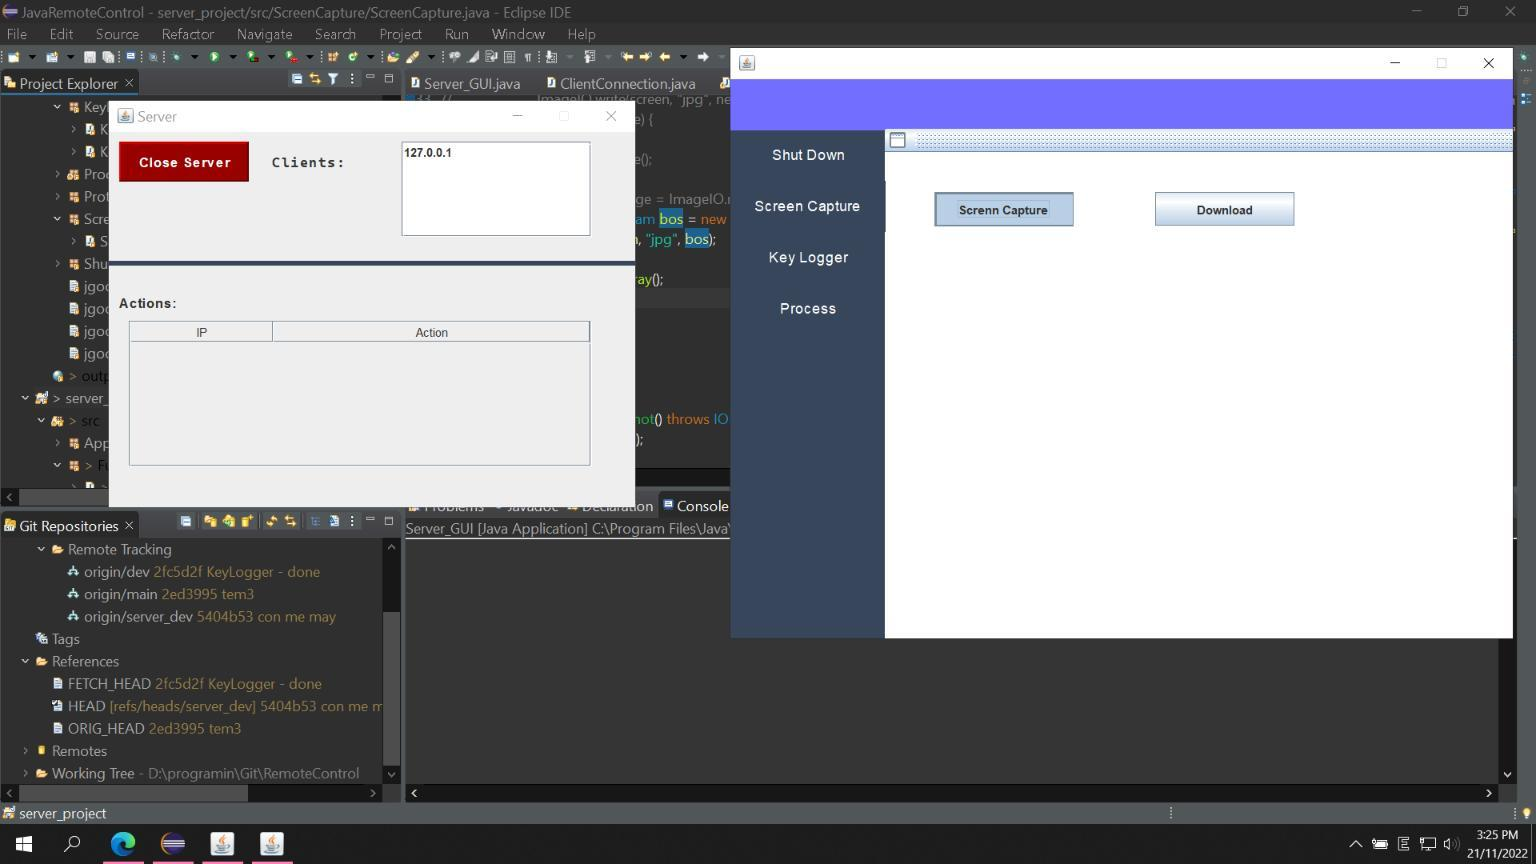
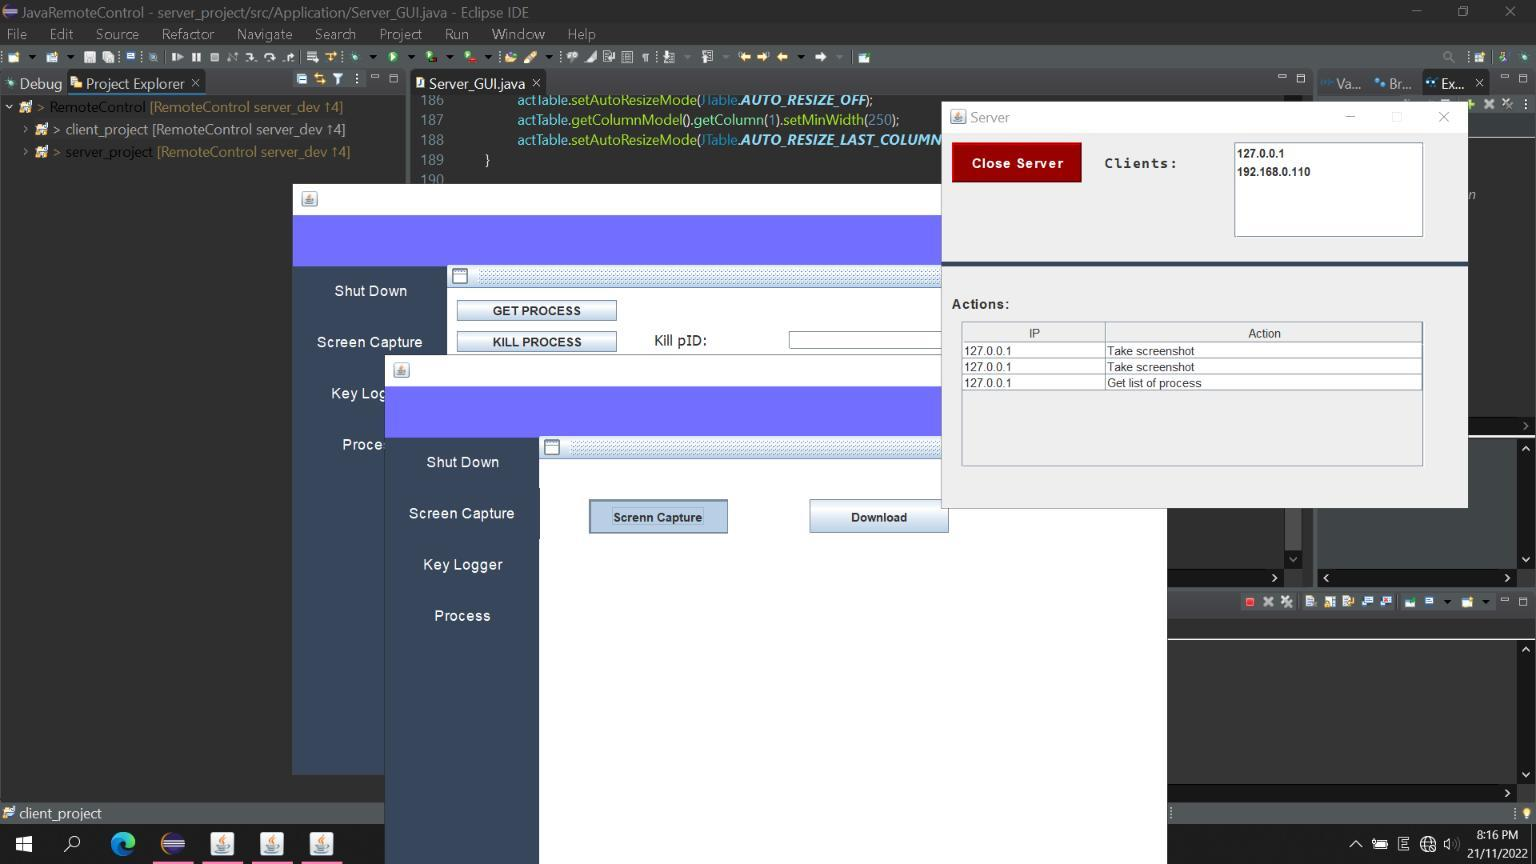
Đã xong server đỉnh cao siêu cấp dũ chụ

diff --git a/client_project/src/Application/ClientConnection.java b/client_project/src/Application/ClientConnection.java
@@ -19,58 +19,69 @@ public class ClientConnection {
 	public void setMain_Window(ClientApplication_GUI mw) {
 		this.main = mw;
 	}
-	
-	public boolean checkStartConnection() throws IOException {
-		Socket client = new Socket(this.host, this.port);
-		ObjectOutputStream oos = new ObjectOutputStream(client.getOutputStream());
-		ObjectInputStream ois = new ObjectInputStream(client.getInputStream());
-		oos.writeObject("START");
-		oos.flush();
-		boolean res = client.isConnected();
-		client.close();
-		return res;
+
+	public boolean checkStartConnection() {
+		try {
+			Socket client = new Socket(this.host, this.port);
+			ObjectOutputStream oos = new ObjectOutputStream(client.getOutputStream());
+			ObjectInputStream ois = new ObjectInputStream(client.getInputStream());
+			oos.writeObject("START");
+			oos.flush();
+			client.close();
+			return true;
+		} catch (IOException e) {
+			System.out.println("ioe checkStartConnection - normal");
+			return false;
+		}
 	}
-	
-	
+
 	public void checkConnectionConstantly() {
 		// Check connection constantly
 		cth = new CheckThread(this);
 		cth.start();
 	}
-	
-	public boolean checkConnection() throws IOException {
-		Socket client = new Socket(this.host, this.port);
-		ObjectOutputStream oos = new ObjectOutputStream(client.getOutputStream());
-		ObjectInputStream ois = new ObjectInputStream(client.getInputStream());
-		oos.writeObject("CHECK");
-		oos.flush();
-		boolean res = client.isConnected();
-		client.close();
-		return res;
-	}
-	
-	public void endConnection(boolean passive) throws IOException {
-		// Intend to end
-			// Come from: CheckThread
-			// End the connection
-		if (passive == false) {
+
+	public boolean checkConnection() {
+		try {
 			Socket client = new Socket(this.host, this.port);
 			ObjectOutputStream oos = new ObjectOutputStream(client.getOutputStream());
 			ObjectInputStream ois = new ObjectInputStream(client.getInputStream());
-			oos.writeObject("END");
+			oos.writeObject("CHECK");
 			oos.flush();
 			client.close();
+			return true;
+		} catch (IOException e) {
+			System.out.println("ioe checkConnection - normal");
+			return false;
 		}
-		// Forced to end
-			// Come from: User
-			// End the CheckThread
-		else {
+	}
 
-			if (cth != null) {
-				cth.stopCheckThread();
+	public void endConnection(boolean serverIsClosed) {
+		try {
+			// Come from: User turn off the connection -> Disable CheckThread immediately
+			if (serverIsClosed == false) {
+				if (cth.isRunning()) {
+					cth.stopCheckThread();
+				}
+				// Send END signal to the server
+				Socket client = new Socket(this.host, this.port);
+				ObjectOutputStream oos = new ObjectOutputStream(client.getOutputStream());
+				ObjectInputStream ois = new ObjectInputStream(client.getInputStream());
+				oos.writeObject("END");
+				oos.flush();
+				client.close();
 			}
+			// Come from: CheckThread -> CheckThread will end automatically
+			else {
+				// Just in case
+				if (cth.isRunning()) {
+					cth.stopCheckThread();
+				}
+			}
+			this.main.returnToConnectionTab();
+		} catch (IOException e) {
+			System.out.println("ioe endConnection");
 		}
-		this.main.returnToConnectionTab();
 	}
 
 }

diff --git a/client_project/src/Application/Client_GUI.java b/client_project/src/Application/Client_GUI.java
@@ -14,9 +14,9 @@ import javax.swing.JTextField;
 
 public class Client_GUI {
 	private JTextField inputIP;
-	public  static Client_GUI window = null;
+	public static Client_GUI window = null;
 	private JButton btnConnection;
-	
+
 	public JFrame frame;
 	public String host;
 	public final int port = 8080;
@@ -28,26 +28,26 @@ public class Client_GUI {
 					window = new Client_GUI();
 					window.frame.setVisible(true);
 				} catch (Exception e) {
-					System.out.println("e");
+					System.out.println("e main client");
 				}
 			}
 		});
 	}
-	
+
 	public Client_GUI() {
 		initialize();
 	}
-	
+
 	private void initialize() {
 		frame = new JFrame();
 		frame.setBounds(100, 100, 600, 400);
 		frame.getContentPane().setLayout(null);
-		
+
 		inputIP = new JTextField();
 		inputIP.setBounds(103, 92, 319, 40);
 		frame.getContentPane().add(inputIP);
 		inputIP.setColumns(10);
-		
+
 		btnConnection = new JButton("Connect");
 		btnConnection.setBounds(453, 85, 85, 52);
 		frame.getContentPane().add(btnConnection);
@@ -60,15 +60,17 @@ public class Client_GUI {
 					host = inputIP.getText();
 					ClientConnection cc = new ClientConnection(host, port);
 					if (cc.checkStartConnection() == true) {
-						ClientApplication_GUI mainWindow = new ClientApplication_GUI(host,port, cc);
+						ClientApplication_GUI mainWindow = new ClientApplication_GUI(host, port,
+								cc);
 						mainWindow.setVisible(true);
 						frame.dispose();
+					} else {
+						host = "";
+						JOptionPane.showMessageDialog(null, "error", "InfoBox: ",
+								JOptionPane.INFORMATION_MESSAGE);
 					}
-				} catch (Exception e2) {
-					// TODO: handle exception
-					System.out.println("e");
-					host = "";
-					JOptionPane.showMessageDialog(null, "error", "InfoBox: " , JOptionPane.INFORMATION_MESSAGE);
+				} catch (Exception e1) {
+					System.out.println("e btnConnection");
 				}
 			}
 		});

diff --git a/client_project/src/Application/ClientApplication_GUI.java b/client_project/src/Application/ClientApplication_GUI.java
@@ -55,11 +55,7 @@ public class ClientApplication_GUI extends JFrame {
 		addWindowListener(new WindowAdapter() {
 			@Override
 			public void windowClosing(WindowEvent e) {
-				try {
-					cc.endConnection(false);
-				} catch (IOException e1) {
-					System.out.println("ioe");
-				}
+				cc.endConnection(false);
 			}
 		});
 		setDefaultCloseOperation(JFrame.DISPOSE_ON_CLOSE);
@@ -74,9 +70,6 @@ public class ClientApplication_GUI extends JFrame {
 		contentPane.setLayout(null);
 		setContentPane(contentPane);
 
-//		ProcessThread processList = new ProcessThread(host, 8080, contentPane);
-
-		// Panel
 		Header.setBounds(0, 0, 786, 51);
 		Header.setBackground(new Color(114, 110, 255));
 		contentPane.add(Header);
@@ -95,6 +88,7 @@ public class ClientApplication_GUI extends JFrame {
 
 		// Button
 		JButton btnShutDown = new JButton("Shut Down");
+		btnShutDown.setEnabled(false);
 		btnShutDown.addActionListener(new ActionListener() {
 			public void actionPerformed(ActionEvent e) {
 				ShutDown shutDown = new ShutDown(host, port);
@@ -205,9 +199,6 @@ public class ClientApplication_GUI extends JFrame {
 		btnProcess.setBackground(new Color(55, 70, 91));
 		btnProcess.setSize(getPreferredSize().width, 100);
 		nav.add(btnProcess);
-
-//		contentPane.add(textPane);
-
 	}
 
 	public void returnToConnectionTab() {

diff --git a/server_project/src/Function/ActionThread.java b/server_project/src/Function/ActionThread.java
@@ -27,7 +27,7 @@ public class ActionThread extends Thread {
 			this.main = main;
 		} catch (Exception e) {
 			// TODO: handle exception
-			System.out.println("e");
+			System.out.println("e ActionThread");
 		}
 
 	}
@@ -101,15 +101,15 @@ public class ActionThread extends Thread {
 			oos.close();
 			ois.close();
 		} catch (StreamCorruptedException sce) {
-			System.out.println("sce");
+			System.out.println("sce run ActionThread");
 		} catch (IOException ioe) {
-			System.out.println("ioe");
+			System.out.println("ioe run ActionThread");
 		} catch (SecurityException se) {
-			System.out.println("se");
+			System.out.println("se run ActionThread");
 		} catch (NullPointerException npe) {
-			System.out.println("npe");
+			System.out.println("npe run ActionThread");
 		} catch (Exception e) {
-			System.out.println("e");
+			System.out.println("e run ActionThread");
 		}
 
 	}

diff --git a/server_project/src/Function/ConnectionThread.java b/server_project/src/Function/ConnectionThread.java
@@ -1,17 +1,17 @@
 package Function;
 
+import java.io.IOException;
 import java.net.ServerSocket;
 import java.net.Socket;
 
 import Application.Server_GUI;
 
-
-/** 
+/**
  * Single Thread
-*/
+ */
 
 public class ConnectionThread extends Thread {
-	
+
 	private ServerSocket server = null;
 	private Socket client = null;
 
@@ -39,7 +39,7 @@ public class ConnectionThread extends Thread {
 		try {
 			this.server.close();
 		} catch (Exception e) {
-			System.out.println("e");
+			System.out.println("e stopConnection");
 		}
 	}
 
@@ -55,9 +55,12 @@ public class ConnectionThread extends Thread {
 				ActionThread woker = new ActionThread(client, main);
 				woker.start();
 			}
+		} catch (IOException e) {
+			System.out.println("ioe run ConnectionThread - normal");
 		} catch (Exception e) {
-			System.out.println("e");
+			System.out.println("e run ConnectionThread");
 		}
+
 	}
 
 }

diff --git a/server_project/src/Application/Server_GUI.java b/server_project/src/Application/Server_GUI.java
@@ -51,7 +51,7 @@ public class Server_GUI {
 					Server_GUI window = new Server_GUI();
 					window.frmServer.setVisible(true);
 				} catch (Exception e) {
-					System.out.println("e");
+					System.out.println("e main server");
 				}
 			}
 		});
@@ -115,6 +115,7 @@ public class Server_GUI {
 				closeBtn.setEnabled(false);
 
 				con.stopConnection();
+				ipListModel.clear();
 			}
 		});
 		closeBtn.setForeground(Color.WHITE);
@@ -194,11 +195,9 @@ public class Server_GUI {
 	public void removeFromIpList(String ip) {
 		int id = this.ipListModel.indexOf(ip);
 		if (id == -1) {
-			System.out.println("4.1");
 			return;
 		}
 		this.ipListModel.remove(id);
-		System.out.println("4.2");
 	}
 
 	public void actionRecorded(String ip, String act) {

diff --git a/client_project/src/Application/CheckThread.java b/client_project/src/Application/CheckThread.java
@@ -12,21 +12,24 @@ public class CheckThread extends Thread {
 	public void stopCheckThread() {
 		this.exit = true;
 	}
+	
+	public boolean isRunning() {
+		return !this.exit;
+	}
 
 	@Override
 	public void run() {
 		try {
 			while (exit == false) {
-				Thread.sleep(1000);
+				Thread.sleep(10);
 				if (cc.checkConnection() == false) {
-					// End Connection passively
-					cc.endConnection(true);
-					
 					break;
 				}
 			}
+			// End Connection passively
+			cc.endConnection(true);
 		} catch (Exception e) {
-			System.out.println("e");
+			System.out.println("e CheckThread");
 		}
 	}
 }
